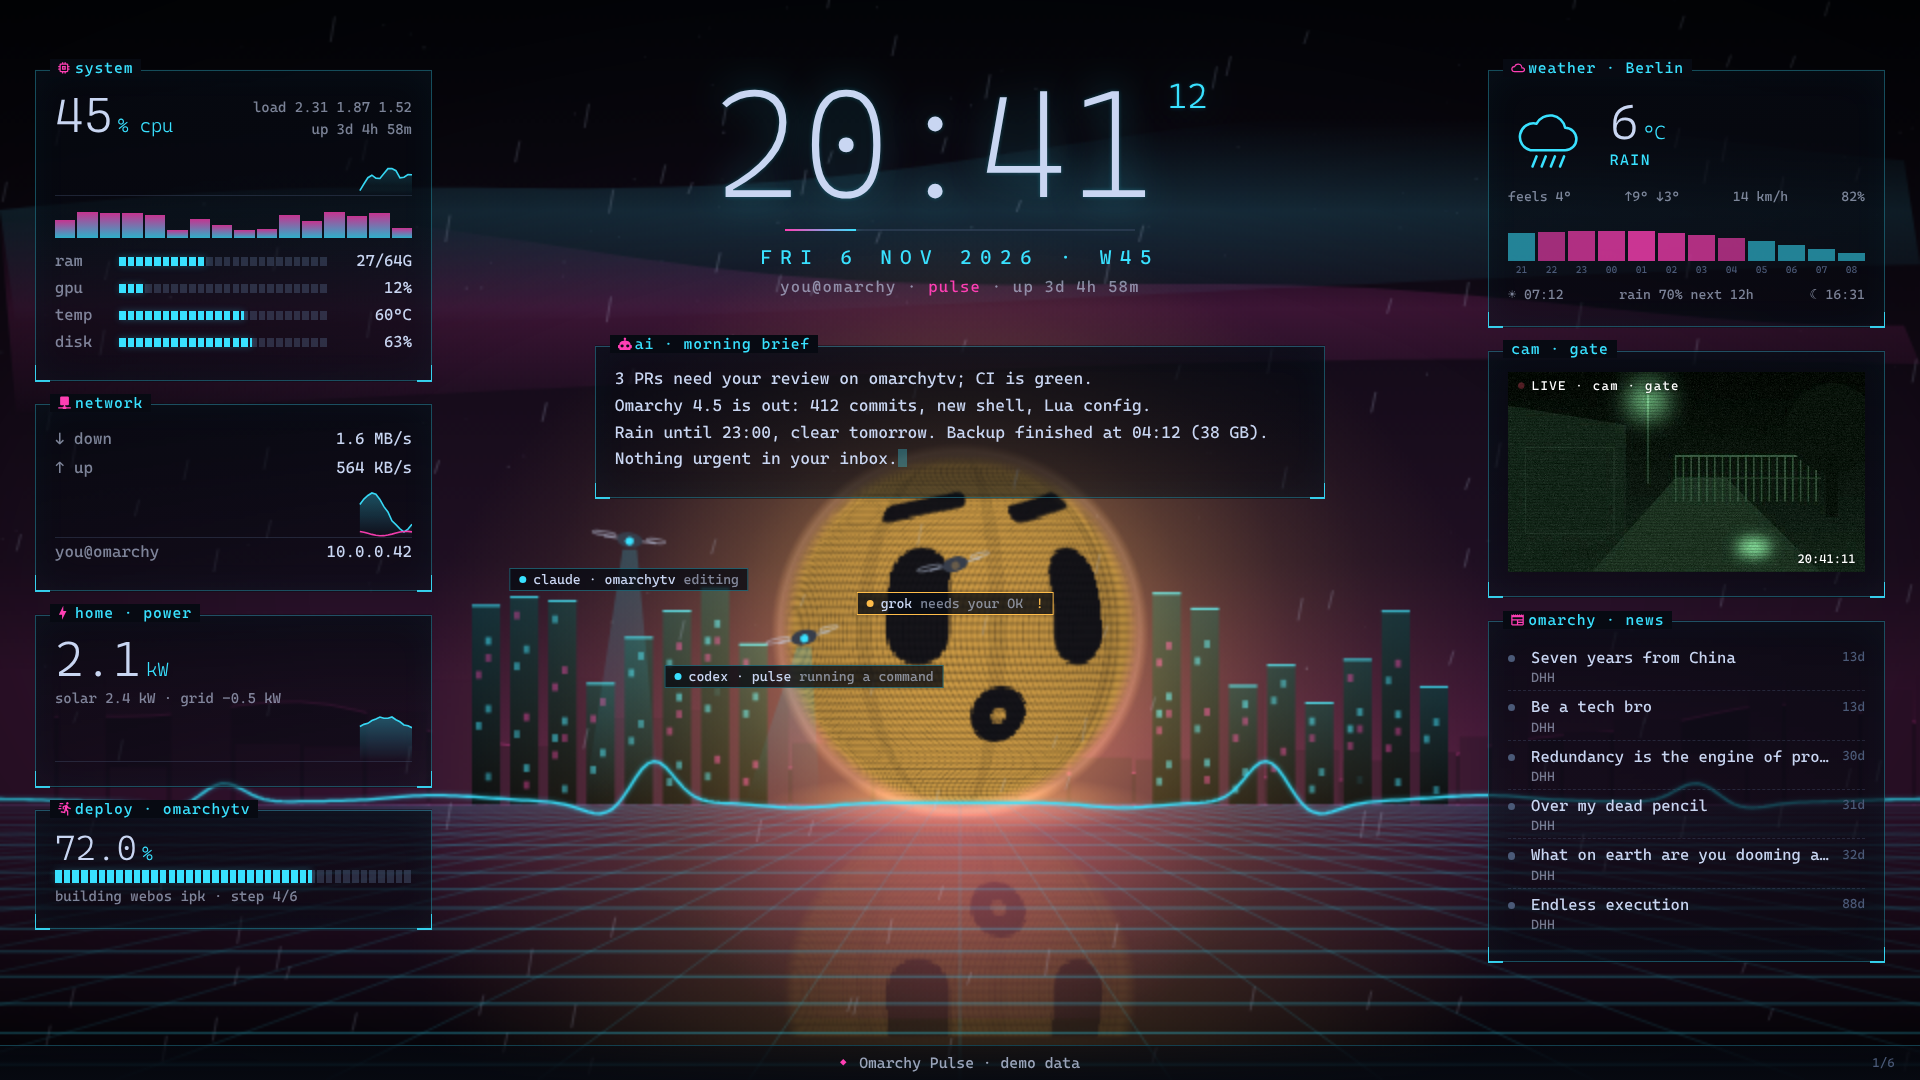
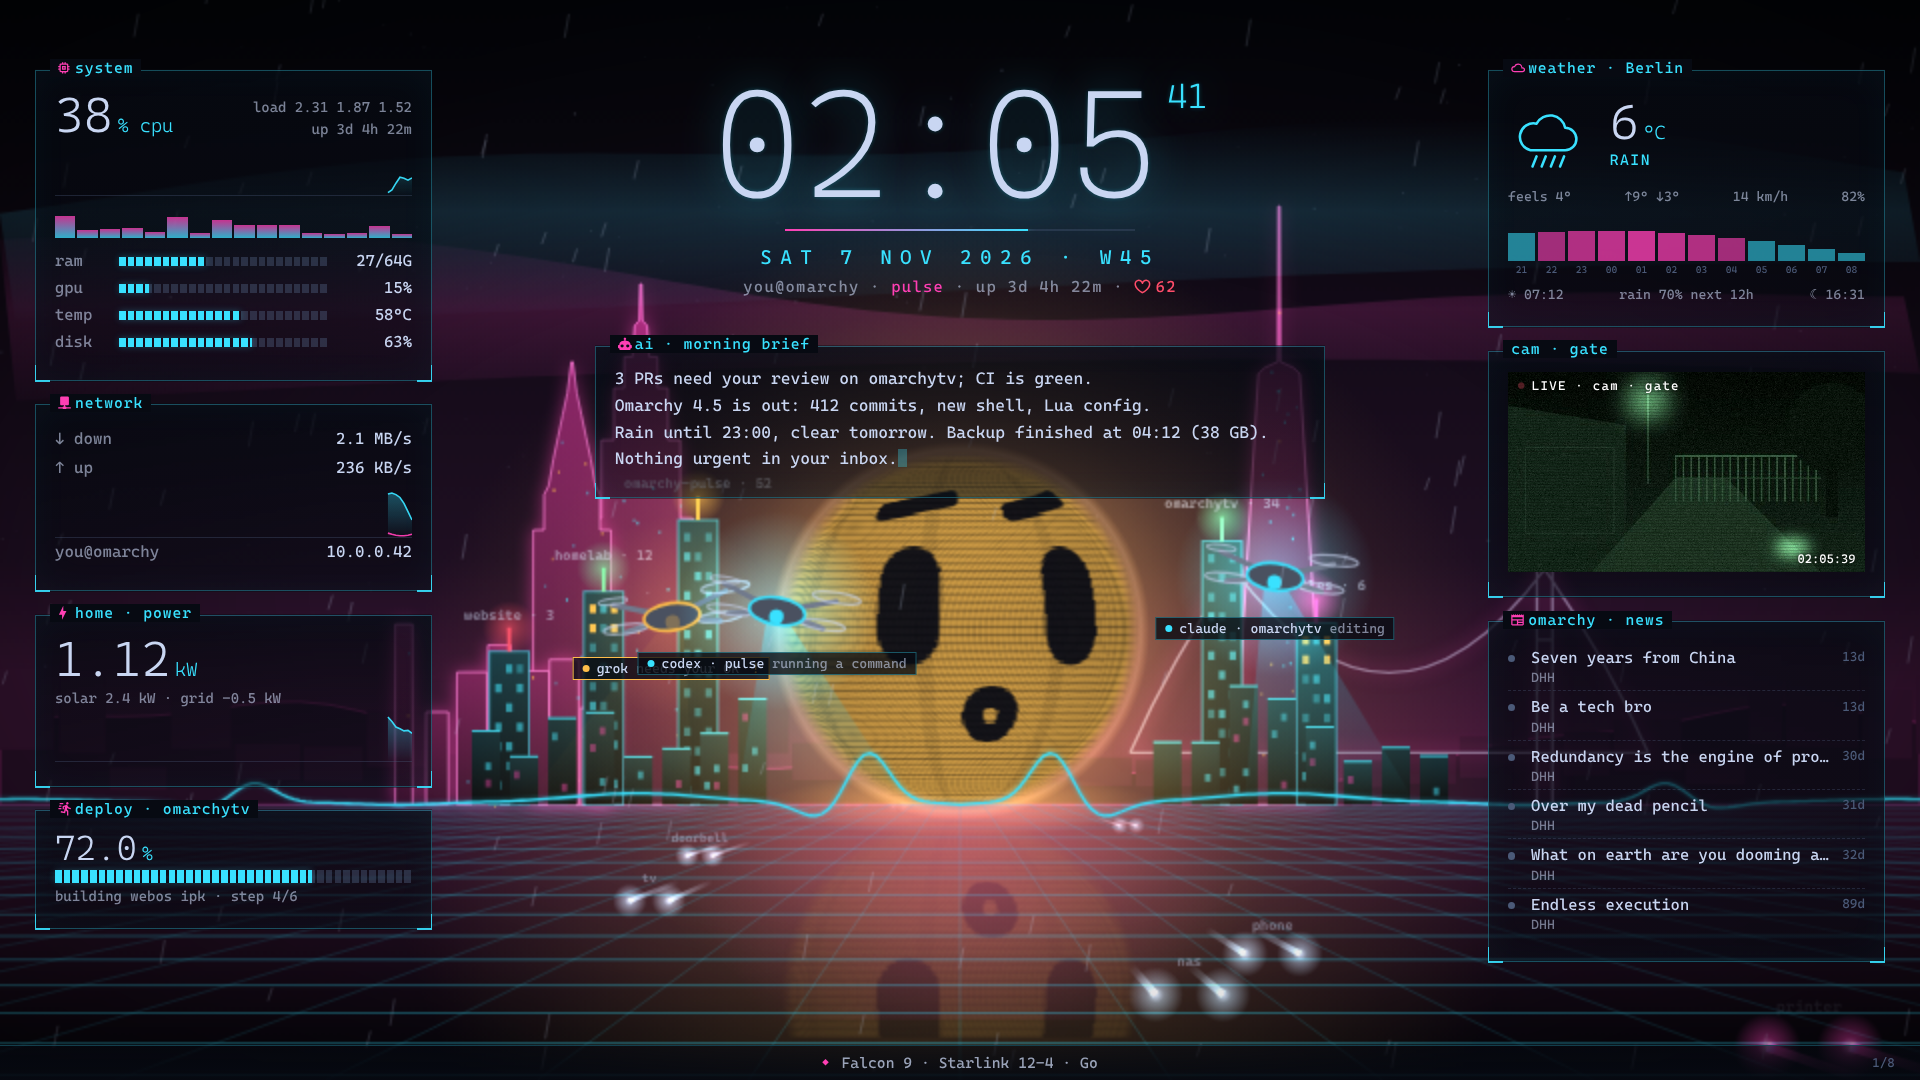
README: what's new in 1.2 at the top, a new preview with a real city
- the New in 1.2 section moves right after the introduction (it was below the 1.1 section) and the first bullet
  points to it
- preview.png: New York's skyline, the Git towers, the agents' drones, demo data only
- guide: dim_with_windows and omarchy-pulse serve explained, no blank line at the end

diff --git a/README.md b/README.md
@@ -4,6 +4,9 @@
 
 Your desktop, alive. Pulse turns the Omarchy wallpaper into a live scene made of your own data:
 
+- **new in 1.2: your real city** (90+, every continent), **your repositories as towers**, **the ISS and every SpaceX
+  launch over your house**, your **heartbeat** on the horizon, a **crew** of friends in your sky, and **"hey sphere"**:
+  talk to it ([what's new](#new-in-12))
 - **the LED sphere**: a giant LED globe in the middle of the city, turning, showing your clock, weather, CPU, news,
   cameras, alerts and the face of your AI agent; it lights the plaza and shines on the wet floor
 - **your AI agents are drones**: Claude Code, Codex, Grok Bot or any job fly over the city while they work, blink
@@ -12,8 +15,6 @@ Your desktop, alive. Pulse turns the Omarchy wallpaper into a live scene made of
 - **it sees you**: the face's eyes follow your pointer, it falls asleep when you leave and, when you are back, tells
   you **what happened while you were away** (also aloud, with an offline voice)
 - **your network drives on the grid**: every device is a car of light; a new one blinks and raises an alert
-- **your real city** (90+, every continent), **your repositories as towers**, **the ISS over your house**, your
-  **heartbeat** on the horizon, a **crew** of friends in your sky, and **"hey sphere"**: talk to it
 - **the skyline is your CPU**: one tower per core, as tall as its load; the lit windows follow your RAM
 - **the horizon is your pulse**: it beats faster when the PC works, and every beat runs from the core to the edges
 - **the aurora is your network**, **the sky is your real weather** (rain, snow, fog, storms), and an alert sends a
@@ -24,6 +25,41 @@ or anything you push from a script. Camera feeds, AI briefs, Home Assistant, ser
 
 Made for **Omarchy 4.5**. By [Marco Porro](https://x.com/MarcoPorro), the author of
 [OmarchyTV](https://github.com/piermark/omarchytv) (the Live screen of OmarchyTV, now on your desktop).
+
+## New in 1.2
+
+**Your real city.** Behind the towers stands the skyline of your city, with its landmarks: the Colosseum in Rome,
+the Duomo in Milan, the One World Trade Center in New York, the Eiffel Tower, Big Ben, the Burj Khalifa, the Petronas
+Towers and 90+ cities from every continent. It follows the city of your weather, or pick one: `skyline = "tokyo"`.
+([guide, section 22](docs/GUIDE.md#22-your-real-city))
+
+**The Git city.** Your repositories are towers: as tall as this week's commits, with a green, red or amber beacon
+for their CI. A push lights the tower up with fireworks. ([section 23](docs/GUIDE.md#23-the-git-city))
+
+**Space over your city.** When the ISS really passes over you, you see it cross your sky. Every SpaceX launch
+(Starlink, ISS crews, Starship) counts down in the ticker and on the sphere, then lifts off from your horizon. A
+geomagnetic storm paints a green aurora, a solar flare flashes the sky. ([section 24](docs/GUIDE.md#24-space-over-your-city))
+
+**Your heartbeat.** Connect your watch (Home Assistant, a script) and the horizon beats with your heart, never leaving
+your PC. ([section 25](docs/GUIDE.md#25-your-heartbeat))
+
+**The crew.** Share a code with friends: their agents fly in your sky, yours in theirs, and you celebrate each other's
+finished tasks, end-to-end sealed with the code. ([section 26](docs/GUIDE.md#26-the-crew))
+
+**Hey sphere.** Hold a key and talk: "focus 25 minutes", "how are my servers?", "what did I miss?". Offline speech to
+text (whisper), only safe commands, the answer out loud, in English or Italian. ([section 27](docs/GUIDE.md#27-hey-sphere))
+
+Try them in a minute:
+
+```
+sed -i 's/^skyline = .*/skyline = "tokyo"/' ~/.config/omarchy-pulse/pulse.toml   # your city (no line yet? add skyline = "tokyo" under [pulse])
+omarchy-pulse listen                  # say "hey sphere, how are my servers?" (needs whisper.cpp or faster-whisper)
+omarchy-pulse crew new                # a code for your friends
+omarchy-pulse fireworks "1.2 shipped"
+```
+
+**Faster updates, smoother frames.** `omarchy-pulse perf` shows how smooth every monitor is; on NVIDIA with 4K or two
+monitors, `dmabuf = "on"` (guide section 12).
 
 ## Install
 
@@ -109,41 +145,6 @@ Nothing leaves the PC. ([section 20](docs/GUIDE.md#20-your-network-on-the-grid))
 **News**: a panel with the Omarchy releases and DHH's posts, on by default (`pulse-feed` reads any RSS/Atom feed).
 **Click** a panel to run its `click = "..."` command. **The sky follows the sun**: dawn, day, dusk and night from
 your weather. **Shooting stars** cross the sky when a notification or a news item arrives.
-
-## New in 1.2
-
-**Your real city.** Behind the towers stands the skyline of your city, with its landmarks: the Colosseum in Rome,
-the Duomo in Milan, the One World Trade Center in New York, the Eiffel Tower, Big Ben, the Burj Khalifa, the Petronas
-Towers and 90+ cities from every continent. It follows the city of your weather, or pick one: `skyline = "tokyo"`.
-([guide, section 22](docs/GUIDE.md#22-your-real-city))
-
-**The Git city.** Your repositories are towers: as tall as this week's commits, with a green, red or amber beacon
-for their CI. A push lights the tower up with fireworks. ([section 23](docs/GUIDE.md#23-the-git-city))
-
-**Space over your city.** When the ISS really passes over you, you see it cross your sky. Every SpaceX launch
-(Starlink, ISS crews, Starship) counts down in the ticker and on the sphere, then lifts off from your horizon. A
-geomagnetic storm paints a green aurora, a solar flare flashes the sky. ([section 24](docs/GUIDE.md#24-space-over-your-city))
-
-**Your heartbeat.** Connect your watch (Home Assistant, a script) and the horizon beats with your heart, never leaving
-your PC. ([section 25](docs/GUIDE.md#25-your-heartbeat))
-
-**The crew.** Share a code with friends: their agents fly in your sky, yours in theirs, and you celebrate each other's
-finished tasks, end-to-end sealed with the code. ([section 26](docs/GUIDE.md#26-the-crew))
-
-**Hey sphere.** Hold a key and talk: "focus 25 minutes", "how are my servers?", "what did I miss?". Offline speech to
-text (whisper), only safe commands, the answer out loud, in English or Italian. ([section 27](docs/GUIDE.md#27-hey-sphere))
-
-Try them in a minute:
-
-```
-sed -i 's/^skyline = .*/skyline = "tokyo"/' ~/.config/omarchy-pulse/pulse.toml   # your city (no line yet? add skyline = "tokyo" under [pulse])
-omarchy-pulse listen                  # say "hey sphere, how are my servers?" (needs whisper.cpp or faster-whisper)
-omarchy-pulse crew new                # a code for your friends
-omarchy-pulse fireworks "1.2 shipped"
-```
-
-**Faster updates, smoother frames.** `omarchy-pulse perf` shows how smooth every monitor is; on NVIDIA with 4K or two
-monitors, `dmabuf = "on"` (guide section 12).
 
 ## Put anything on your wallpaper
 

diff --git a/docs/GUIDE.md b/docs/GUIDE.md
@@ -451,7 +451,8 @@ In `[builtin]` (`false` hides one):
   `[pulse]` `pause_when_covered = false` to keep the original behavior. This uses window geometry, so translucent
   windows can appear covered even when the wallpaper is visible through them. If compositor data is unavailable,
   Pulse keeps drawing. Source collection and alert checks continue in the hub while a view is paused.
-- 20 frames a second only while you look at an empty desktop (`fps`), 8 with windows open, almost nothing with an app
+- 20 frames a second only while you look at an empty desktop (`fps`), 8 with windows open (`dim_with_windows = false`
+  keeps full speed and full brightness under windows), almost nothing with an app
   full screen; at most 12 on battery; panels refresh once a second; no CSS animations (blinking happens once a
   second, with the data).
 - A PC that cannot keep up gets fewer frames by itself.
@@ -504,6 +505,9 @@ In `[builtin]` (`false` hides one):
 | The crew sees nothing | the same `code` on every PC, at least 16 characters (`omarchy-pulse crew new`); `omarchy-pulse crew`; the relay must be reachable. |
 | Hey sphere does not hear | `omarchy-pulse doctor` (whisper-cli or faster-whisper); test with `omarchy-pulse listen --file question.wav`; the microphone needs `pw-record` (PipeWire) or `arecord`. |
 | The voice says nothing | `enabled = true` in `[voice]`; `omarchy-pulse say "test"`; `omarchy-pulse doctor` (piper-tts or espeak-ng); check `quiet`. |
+
+**Preview without installing anything live**: `omarchy-pulse serve` runs only the hub and prints a URL to open in a
+browser; `omarchy-pulse serve --demo` does the same with demo data (no personal data), as in the videos.
 
 ## 14. Files
 
@@ -885,4 +889,3 @@ model such as `ggml-base.bin` in `~/.local/share/whisper/`) or [faster-whisper](
 `~/.local/state/omarchy-pulse/listen.wav` and is deleted as soon as it is understood; Pulse never listens on its
 own. The answer uses the voice of section 21 (it speaks even with `[voice]` off, since you asked). Try it without a
 microphone: `omarchy-pulse listen --file question.wav`.
-
